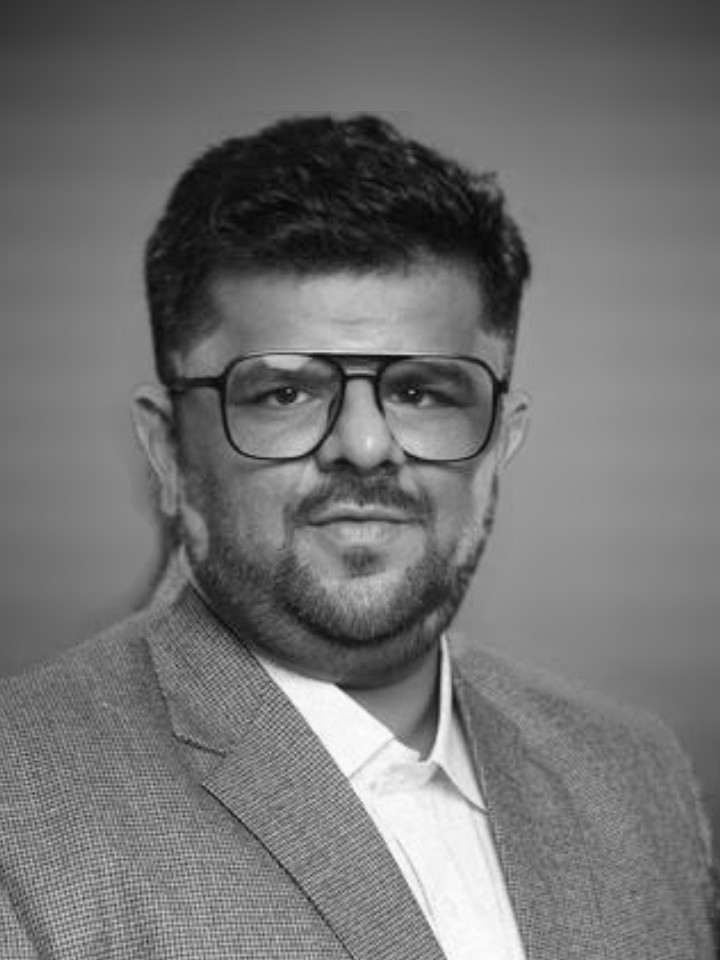
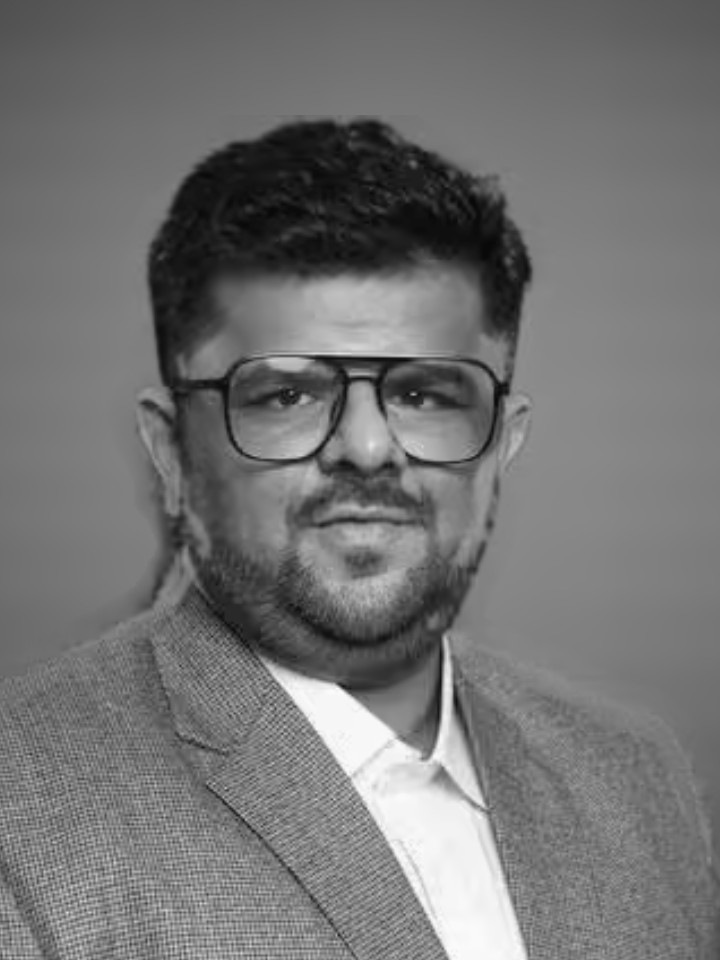
Match Sumit and Asif to the six by measurement
Rebuilt from the originals the client sent again, and this time matched
to the other six on numbers rather than by eye: corners, mid-sides, face
tone and overall mean, sampled at the same places on all eight. The six
set the range; these two have to land inside it.

Two things were out. Sumit's office lighting put his face at 207 against
their 161 to 188, so he takes a per-person exposure target and the room
to reach it — a frame being matched to a set can afford more gamma than
one that is only being corrected. And their wall sat six levels under
the darkest of the six, so it is now mapped onto the six's own levels at
two points, corner and mid-side, which keeps its falloff instead of
lifting the middle as much as the edges.

Every metric is inside the six's range now, bar Sumit's mean at 93
against their 95 — his suit is darker than anyone's.

diff --git a/scripts/portraits/build.py b/scripts/portraits/build.py
@@ -34,7 +34,7 @@ PEOPLE = [   # the third column: no ground, or which way the wall behind them fa
     ('ramesh-yadav',      'ramesh-yadav.webp',    False),
     ('amit-garg',         'amit-garg.webp',       False),
     ('dhawal-parvatikar', 'dhawal-parvatikar.webp', False),
-    ('asif-masani',       'asif-masani.jpg',      'flip'),
+    ('asif-masani',       'asif-masani.png',      'flip'),
     ('sanjay-rikhy',      'sanjay-rikhy.webp',    False),
     ('geeta-karnik',      'geeta-karnik.webp',    False),
     ('saurabh-aggarwal',  'saurabh-aggarwal.webp', False),
@@ -54,6 +54,18 @@ FACE_FRAC_GROUND = 0.33 # …and for the two on a plate, the middle of what the 
 FACE_FRAC_MAX = 0.38    # …and the most it may grow to fill a tightly shot frame
 FACE_Y = 0.48           # where the face sits down the frame
 FACE_TONE = 182         # the face median every portrait is exposed toward
+# The two on a plate are measured against the six as they end up on the page,
+# not against the target: Sumit's office lighting put his face 20 levels above
+# the brightest of them, so his target is pulled down until he lands inside
+# their range. Set from measurement, not taste — see the note in the README.
+TONE = {'sumit-chatterjee': 150}
+# …and their wall is mapped onto the six's own levels: corner to 95, mid-side
+# to 123, both medians of the six. Two points, so the falloff between them is
+# kept rather than the whole wall being shifted.
+WALL_CORNER, WALL_SIDE = 95, 123
+# A frame being matched to the set, rather than merely corrected, is allowed
+# more gamma than one that keeps its own look.
+GAMMA_CEIL_GROUND = 1.70
 GAMMA_FLOOR = 0.80      # …and how far any one frame may be moved to get there
 GAMMA_CEIL = 1.20
 CARD = (720, 960)       # 3:4, the adviser card
@@ -97,7 +109,19 @@ def studio_grey(size, which):
     W, H = size
     plate = np.asarray(
         Image.fromarray(base.astype('float32'), 'F').resize((W, H), Image.BILINEAR), dtype=float)
-    return plate[:, ::-1] if which == 'flip' else plate
+    if which == 'flip':
+        plate = plate[:, ::-1]
+    # Map it onto the six's own levels. A wall a few levels off theirs is the
+    # thing the eye picks out on a row of cards, and a flat offset would have
+    # brightened the middle as much as the corners; two points keep the falloff.
+    corner = np.median(np.concatenate([
+        plate[int(.02 * H):int(.09 * H), int(.02 * W):int(.10 * W)].ravel(),
+        plate[int(.02 * H):int(.09 * H), int(.90 * W):int(.98 * W)].ravel()]))
+    side = np.median(np.concatenate([
+        plate[int(.32 * H):int(.42 * H), int(.01 * W):int(.06 * W)].ravel(),
+        plate[int(.32 * H):int(.42 * H), int(.94 * W):int(.99 * W)].ravel()]))
+    scale = (WALL_SIDE - WALL_CORNER) / max(side - corner, 1e-6)
+    return (plate - corner) * scale + WALL_CORNER
 
 def face(path):
     line = subprocess.run([f'{D}/faces', path], capture_output=True, text=True).stdout.strip()
@@ -116,12 +140,13 @@ def levels(a, lo_t=6, hi_t=244):
     lo, hi = np.percentile(a, 0.5), np.percentile(a, 99.5)
     return np.clip((a - lo) * (hi_t - lo_t) / max(hi - lo, 1) + lo_t, 0, 255)
 
-def expose(a, box):
+def expose(a, box, tone=None):
     """A gamma toward the set's face tone, clamped. A face pushed all the way to
     a target is not an exposure correction — it changes how the person looks."""
     x, y, w, h = box
     med = float(np.median(a[y + int(h * .35):y + int(h * .75), x + int(w * .2):x + int(w * .8)]))
-    g = min(max(np.log(FACE_TONE / 255) / np.log(max(med, 1) / 255), GAMMA_FLOOR), GAMMA_CEIL)
+    ceil = GAMMA_CEIL_GROUND if tone else GAMMA_CEIL
+    g = min(max(np.log((tone or FACE_TONE) / 255) / np.log(max(med, 1) / 255), GAMMA_FLOOR), ceil)
     return 255 * np.power(np.clip(a, 0, 255) / 255, g), med, g
 
 def infill(a, known):
@@ -205,7 +230,7 @@ def place(layers, box, size, cover=False, frac=None):
 def make(name, src, size, ground):
     path = f'{SRC}/{src}'
     box = face(path)
-    a, med, g = expose(levels(np.asarray(Image.open(path).convert('L'), dtype=float)), box)
+    a, med, g = expose(levels(np.asarray(Image.open(path).convert('L'), dtype=float)), box, TONE.get(name))
 
     if not ground:
         # The photograph as it was taken: its own wall, cropped to the card.

diff --git a/scripts/portraits/README.md b/scripts/portraits/README.md
@@ -28,6 +28,13 @@ tightly shot frame keeps a larger head — nothing is invented at the edges.
 moves most of the way and never all of it: a face pushed all the way to a
 target is not an exposure correction, it changes how the person looks.
 
+The two on a plate are matched to the other six by measurement rather than by
+eye. Sample each card's corners, mid-sides, face and overall mean; the six set
+the range, and these two have to land inside it. `TONE` holds a per-person
+exposure target for that (Sumit's office lighting put his face twenty levels
+above the brightest of them), and `WALL_CORNER`/`WALL_SIDE` map their wall onto
+the six's own levels at two points, so its falloff survives the correction.
+
 The `.tr-init` placeholder tile in globals.css approximates the same grey, for
 a card with no photograph. None has one today.
 
